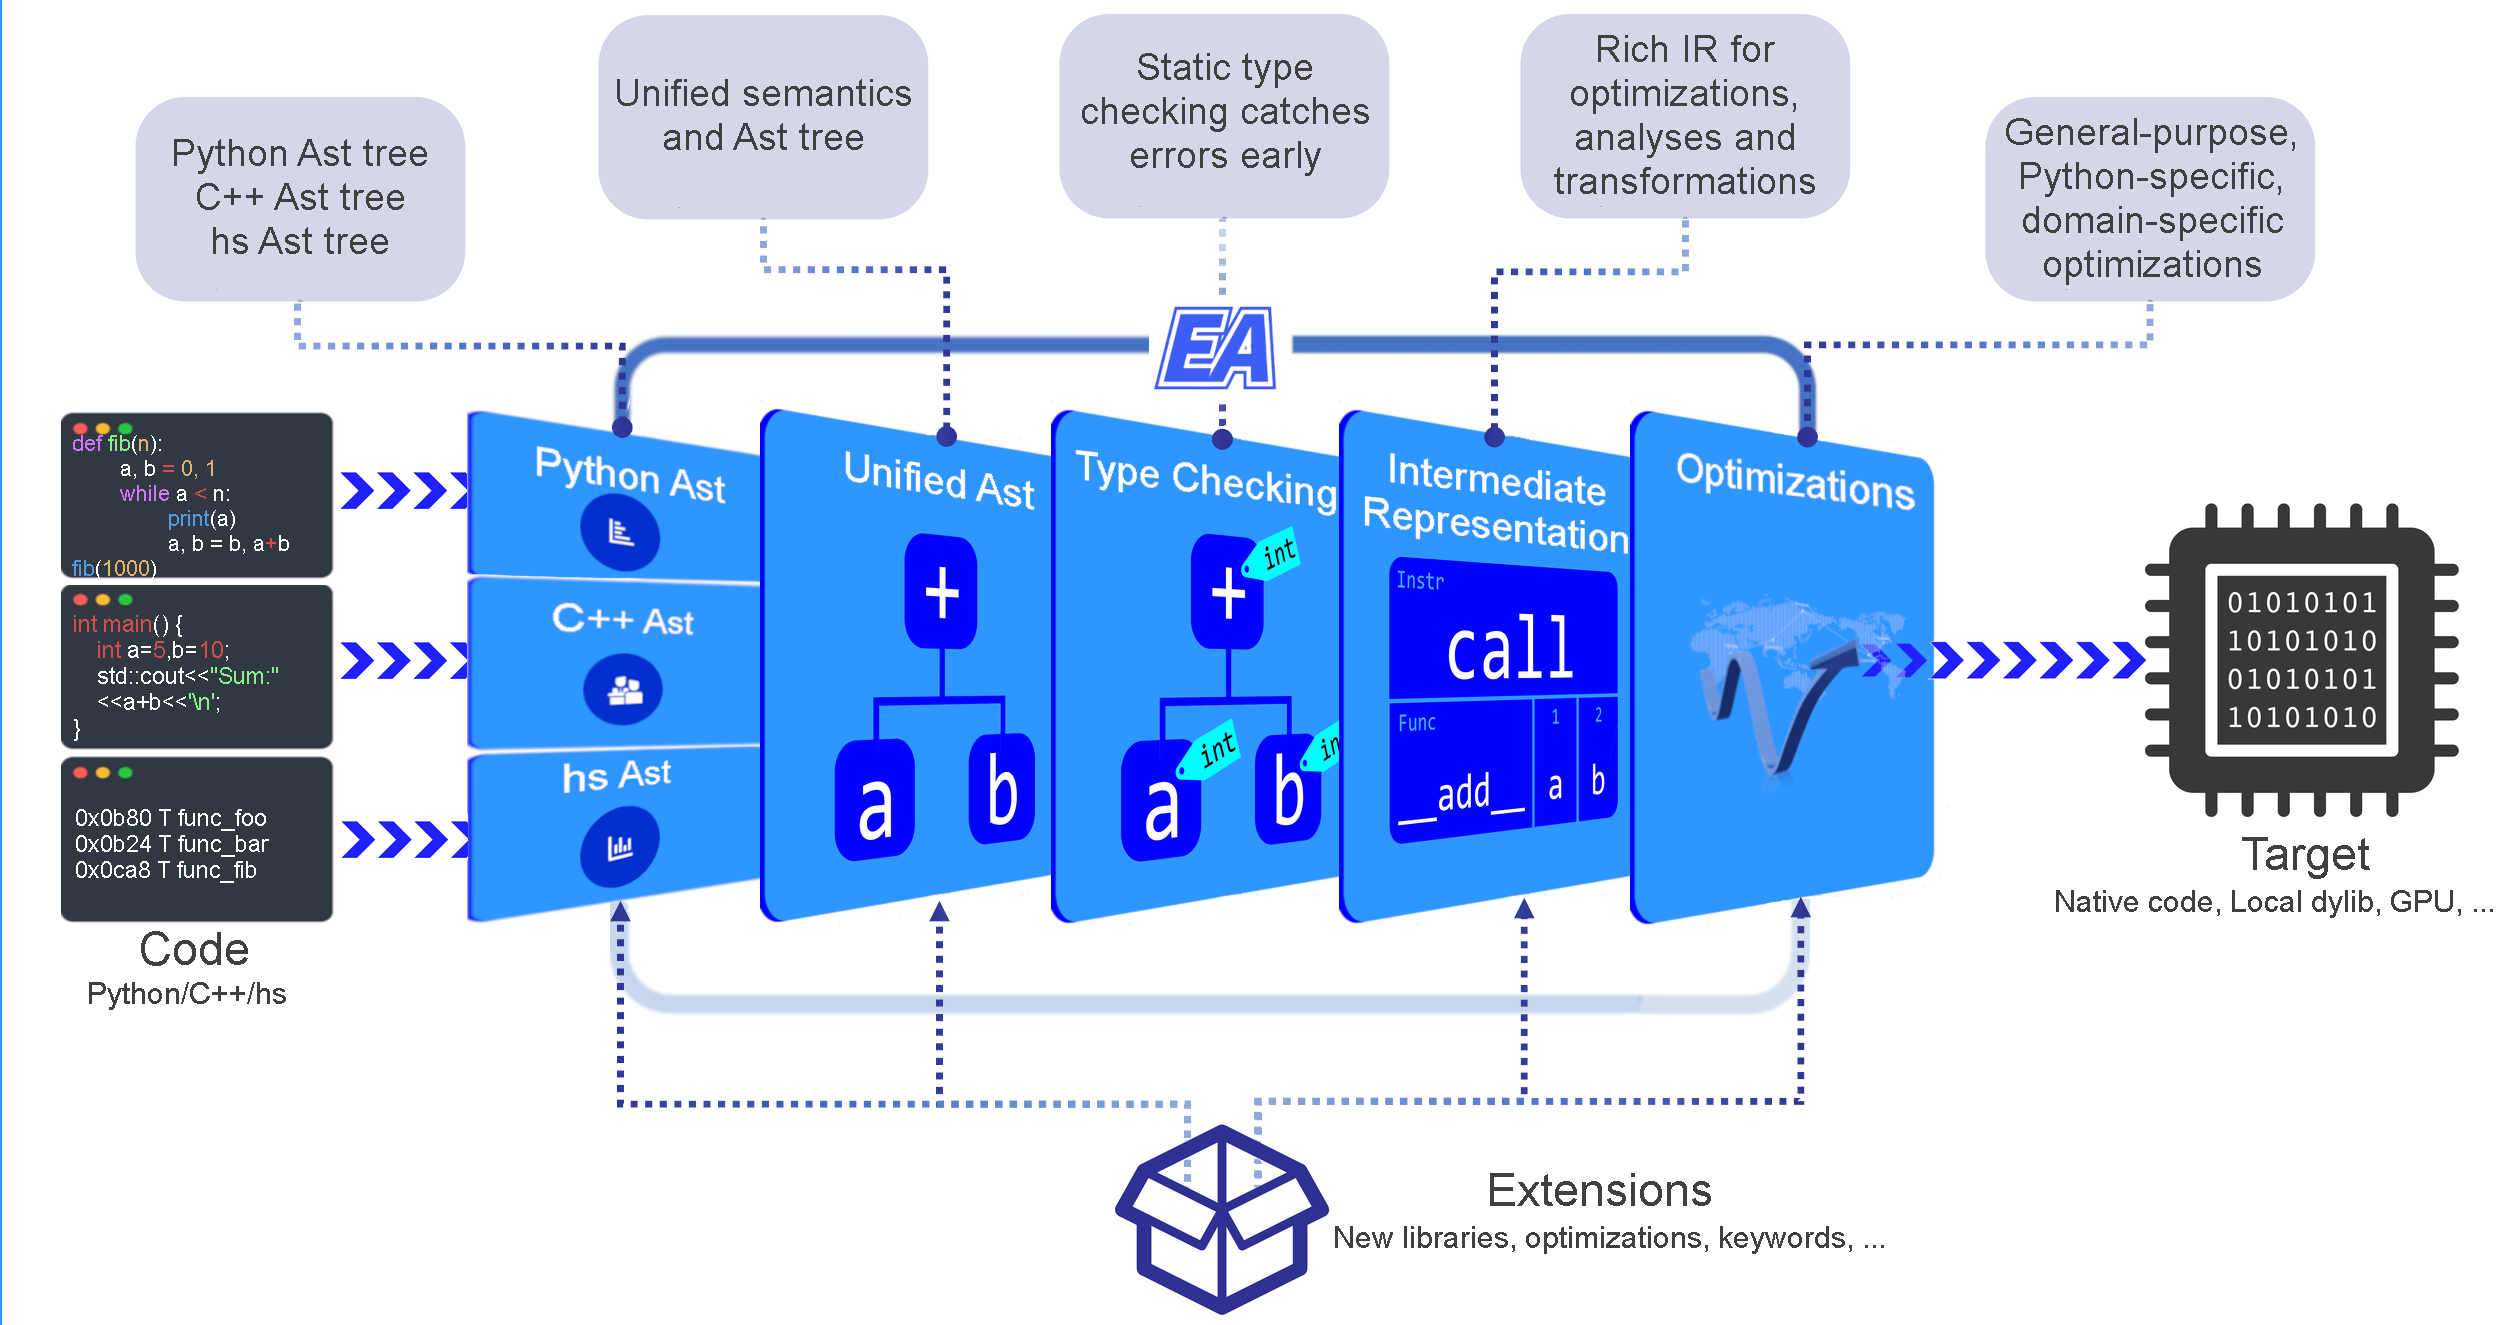
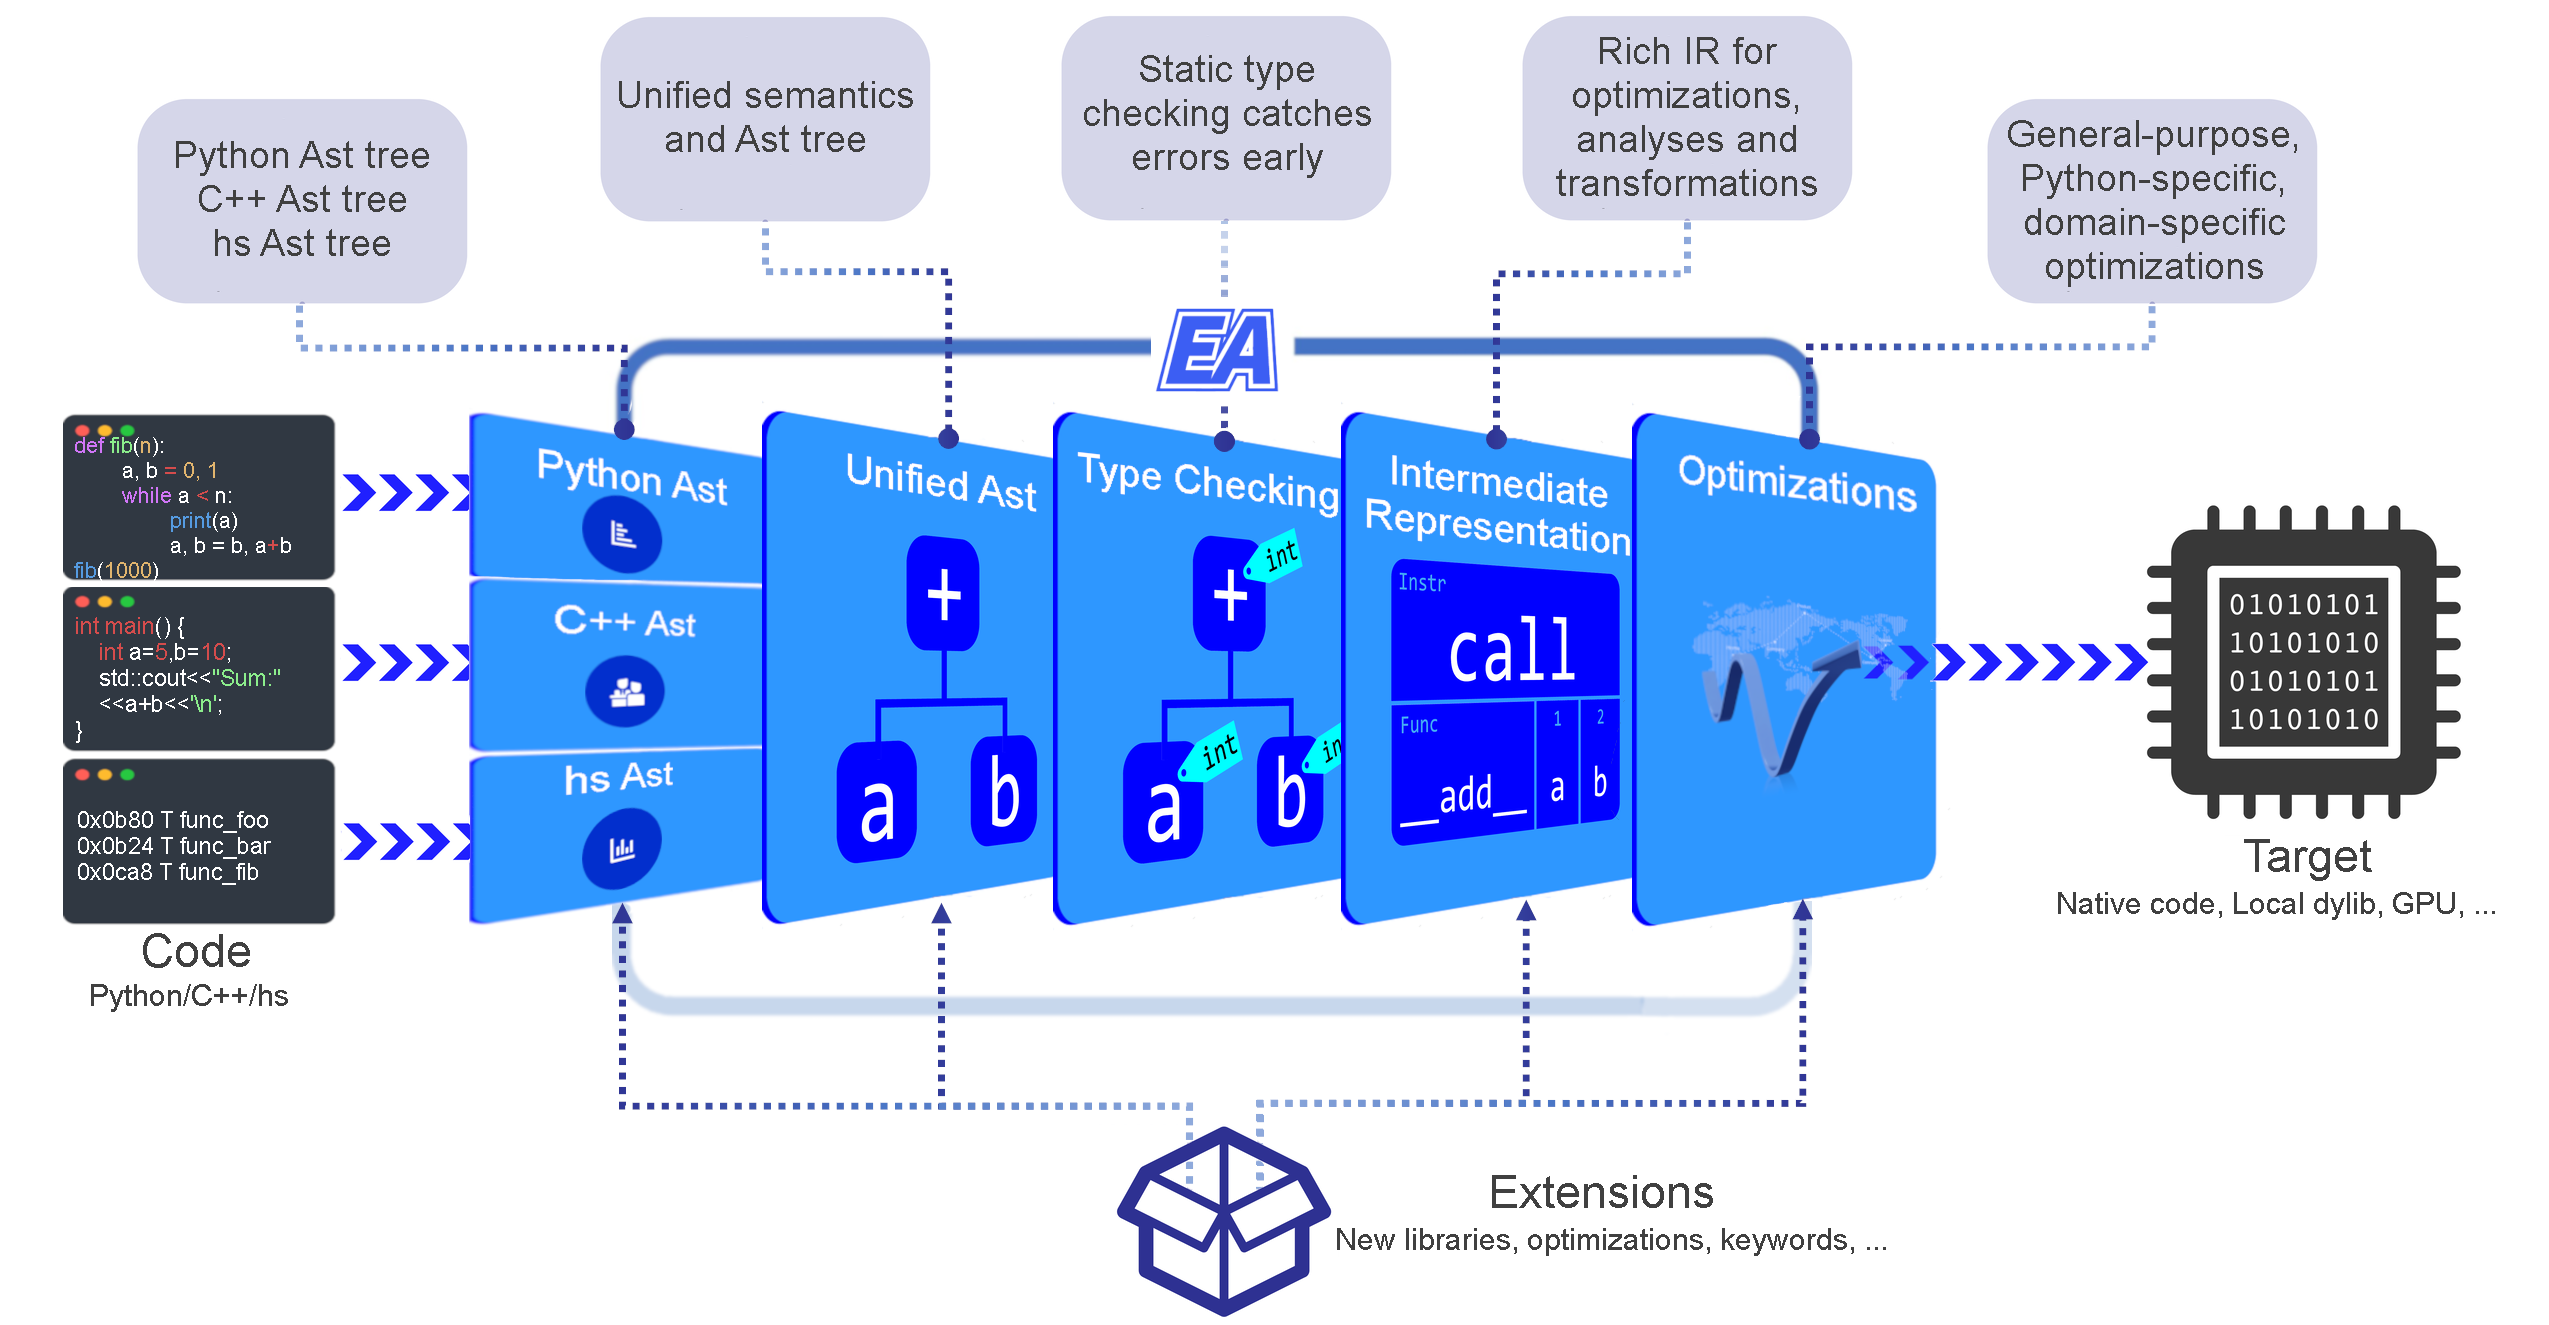
add docs

diff --git a/docs/source/index.rst b/docs/source/index.rst
@@ -13,9 +13,6 @@ native machine code or c++ code without any runtime overhead. Typical speedups o
 Python are on the order of 100x or more.
 
 ..  image:: image/flow.webp
-    :height: 550px
-    :width: 800 px
-    :scale: 80 %
     :align: center
     :alt: hercules
 
